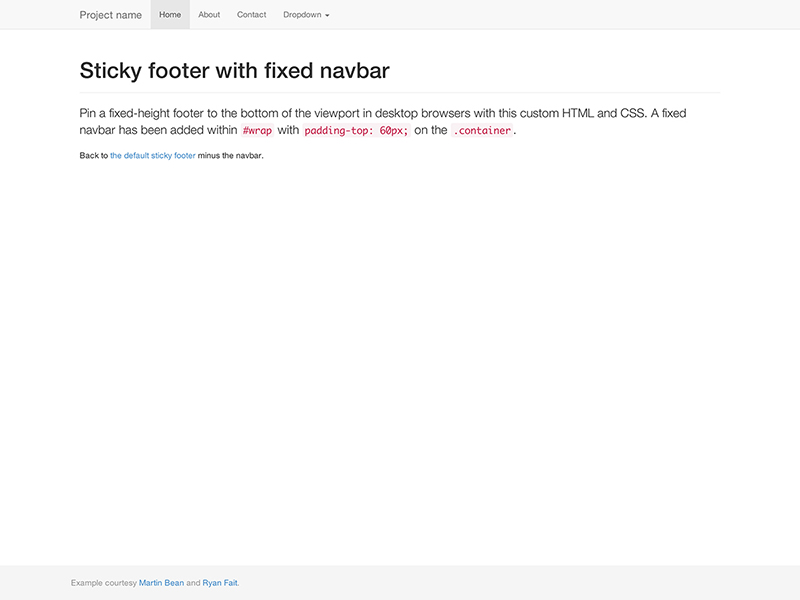
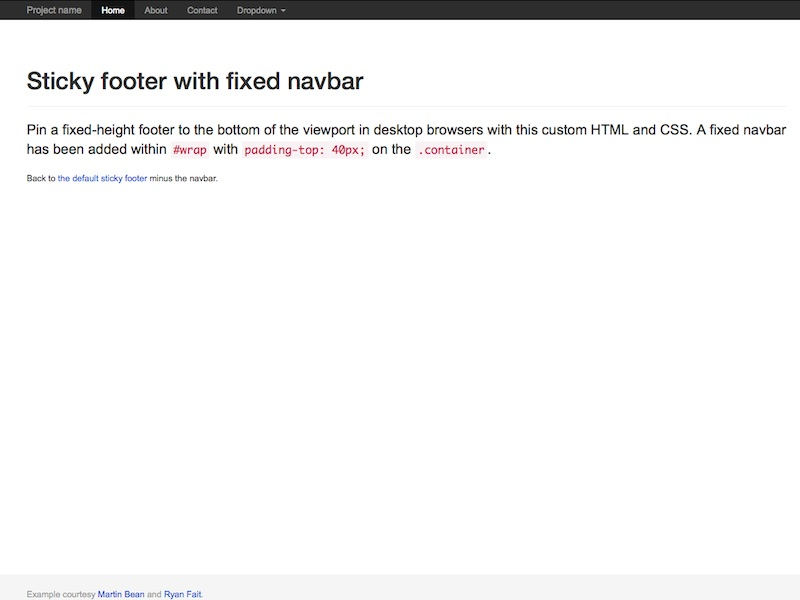
update the sticky footer navbar example to support todc-bootstrap
#117

diff --git a/examples/sticky-footer-navbar/index.html b/examples/sticky-footer-navbar/index.html
@@ -8,10 +8,13 @@
     <meta name="author" content="">
     <link rel="shortcut icon" href="../../docs-assets/ico/favicon.png">
 
-    <title>Sticky Footer Navbar Template for Bootstrap</title>
+    <title>Sticky Footer Navbar Template for TODC Bootstrap</title>
 
     <!-- Bootstrap core CSS -->
     <link href="../../dist/css/bootstrap.css" rel="stylesheet">
+
+    <!-- TODC Bootstrap core CSS -->
+    <link href="../../dist/css/todc-bootstrap.css" rel="stylesheet">
 
     <!-- Custom styles for this template -->
     <link href="sticky-footer-navbar.css" rel="stylesheet">
@@ -69,7 +72,7 @@
         <div class="page-header">
           <h1>Sticky footer with fixed navbar</h1>
         </div>
-        <p class="lead">Pin a fixed-height footer to the bottom of the viewport in desktop browsers with this custom HTML and CSS. A fixed navbar has been added within <code>#wrap</code> with <code>padding-top: 60px;</code> on the <code>.container</code>.</p>
+        <p class="lead">Pin a fixed-height footer to the bottom of the viewport in desktop browsers with this custom HTML and CSS. A fixed navbar has been added within <code>#wrap</code> with <code>padding-top: 40px;</code> on the <code>.container</code>.</p>
         <p>Back to <a href="../sticky-footer">the default sticky footer</a> minus the navbar.</p>
       </div>
     </div>
